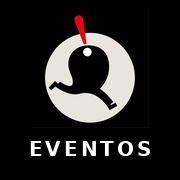
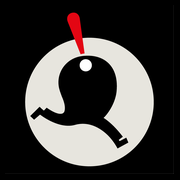
Add files via upload

Changed region(s): [[0.1389, 0.0556, 0.8611, 0.9444]]

diff --git a/index.html b/index.html
@@ -4,14 +4,14 @@
 
 <meta name="viewport" content="width=device-width, initial-scale=1.0">
 <title>Calendario Viviendo</title>
-<link rel="icon" href="favicon.ico" sizes="any">
-<link rel="icon" type="image/png" sizes="32x32" href="favicon-32.png">
-<link rel="icon" type="image/png" sizes="16x16" href="favicon-16.png">
-<link rel="apple-touch-icon" sizes="180x180" href="apple-touch-icon.png">
-<link rel="apple-touch-icon" sizes="120x120" href="apple-touch-icon-120.png">
-<link rel="manifest" href="manifest.json">
+<link rel="icon" href="favicon.ico?v=3" sizes="any">
+<link rel="icon" type="image/png" sizes="32x32" href="favicon-32.png?v=3">
+<link rel="icon" type="image/png" sizes="16x16" href="favicon-16.png?v=3">
+<link rel="apple-touch-icon" sizes="180x180" href="apple-touch-icon.png?v=3">
+<link rel="apple-touch-icon" sizes="120x120" href="apple-touch-icon-120.png?v=3">
+<link rel="manifest" href="manifest.json?v=3">
 <meta name="apple-mobile-web-app-capable" content="yes">
-<meta name="apple-mobile-web-app-title" content="Eventos">
+<meta name="apple-mobile-web-app-title" content="CALENDARIO">
 <meta name="theme-color" content="#000000">
 <script src="https://www.gstatic.com/firebasejs/10.12.2/firebase-app-compat.js"></script>
 <script src="https://www.gstatic.com/firebasejs/10.12.2/firebase-firestore-compat.js"></script>
@@ -84,12 +84,12 @@ html,body{height:100%;background:var(--bg);color:var(--text);font-size:14px;over
 }
 .modal-close{background:none;border:none;font-size:20px;cursor:pointer;color:var(--muted);width:32px;height:32px;border-radius:50%;display:flex;align-items:center;justify-content:center}
 .modal-close:hover{background:var(--hover)}
-.modal-body{padding:16px 20px;flex:1;overflow-y:visible}
+.modal-body{padding:16px 20px}
 .modal-two-col{display:grid;grid-template-columns:1fr 1fr;gap:20px}
 @media(max-width:1024px){.modal-two-col{grid-template-columns:1fr}}
 .modal-col-left,.modal-col-right{display:flex;flex-direction:column}
 .modal-col-right{container-type:inline-size}
-.modal-footer{padding:12px 20px 16px;display:flex;justify-content:flex-end;gap:10px;border-top:1px solid var(--border);position:sticky;bottom:0;background:#fff;flex-shrink:0}
+.modal-footer{padding:12px 20px 16px;display:flex;justify-content:flex-end;gap:10px;border-top:1px solid var(--border);background:#fff;flex-shrink:0}
 .sec-label{font-size:16px;font-weight:700;color:#1a1a1a;letter-spacing:.6px;text-transform:uppercase;margin-bottom:8px;margin-top:4px}
 .selector-field{display:flex;align-items:center;justify-content:space-between;border:2px solid var(--border);border-radius:12px;padding:14px 16px;cursor:pointer;margin-bottom:14px;background:#fff;min-height:56px}
 .selector-field:hover{border-color:var(--blue)}
@@ -912,9 +912,9 @@ function calcTiming(startVal,endVal){
 }
 function recalcEnd(){
   const startVal=document.getElementById('ev-start').value;
-  if(!startVal||!selActividad)return;
+  if(!startVal)return;
   const [h,m]=startVal.split(':').map(Number);
-  const esConcurso=selActividad.toLowerCase().includes('concurso');
+  const esConcurso=selActividad&&selActividad.toLowerCase().includes('concurso');
   const mins=h*60+m+(esConcurso?75:150);
   const endVal=pad(Math.floor(mins/60)%24)+':'+pad(mins%60);
   document.getElementById('ev-end').value=endVal;
